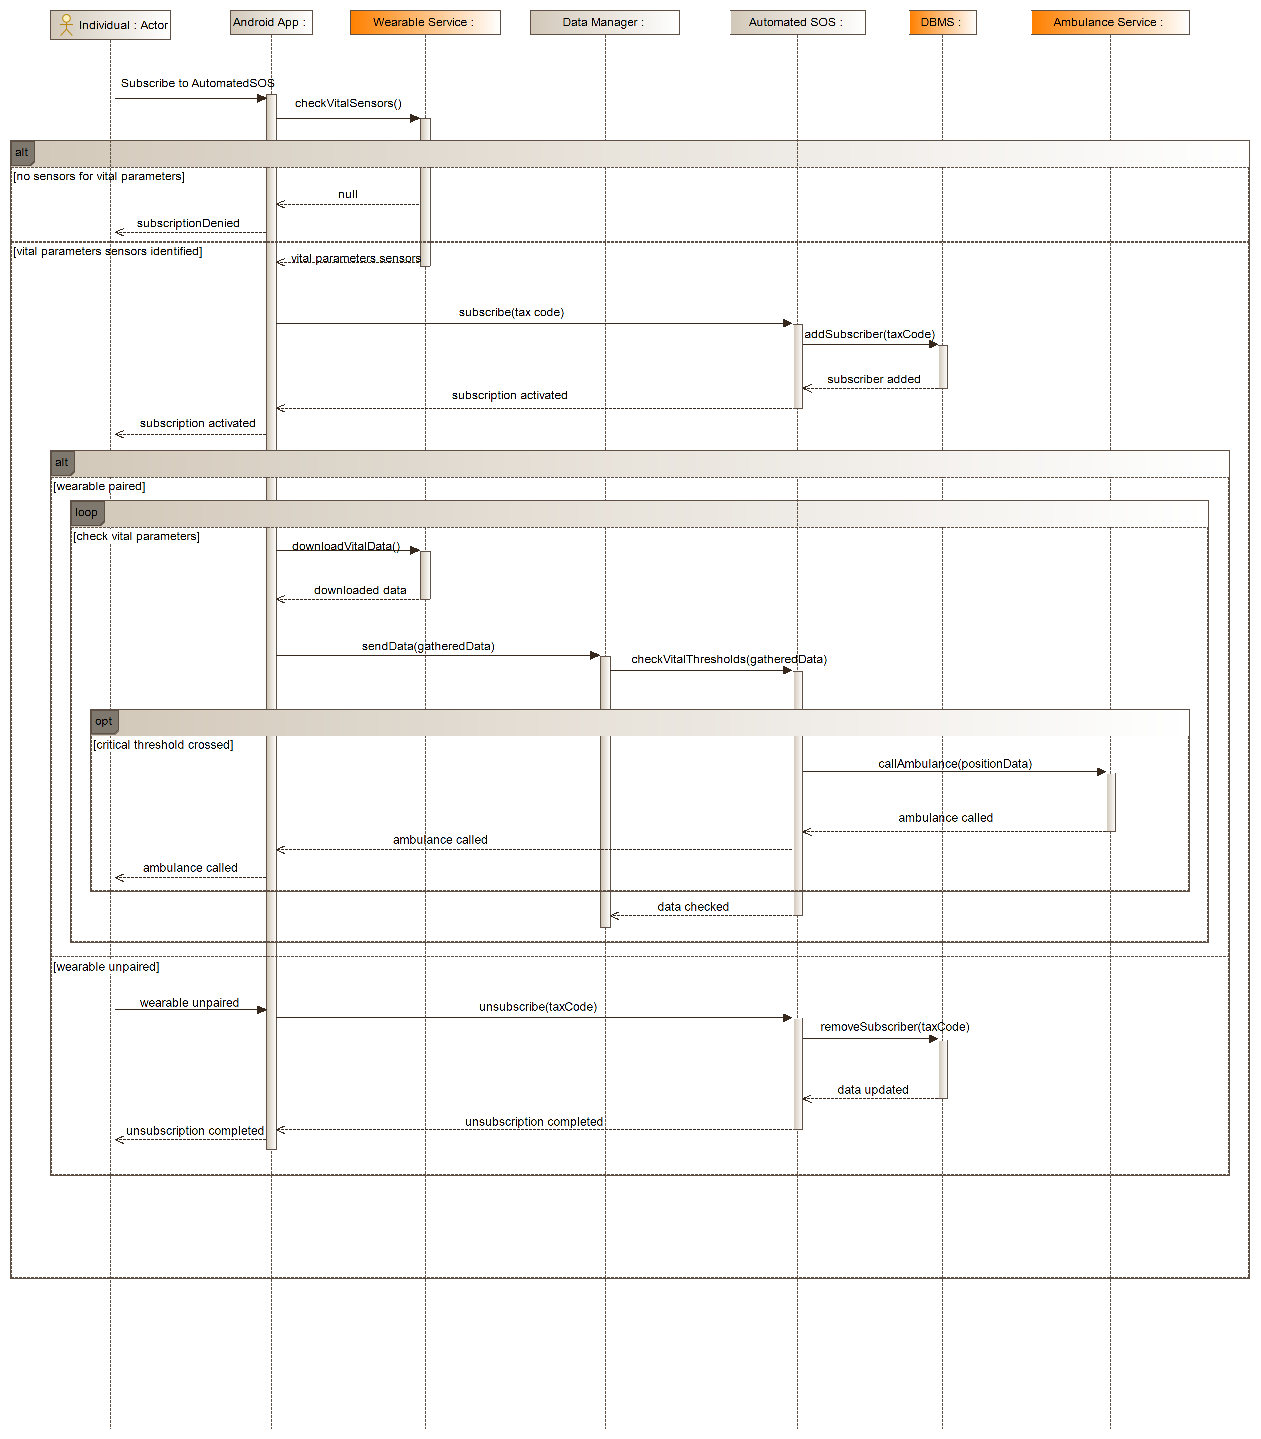
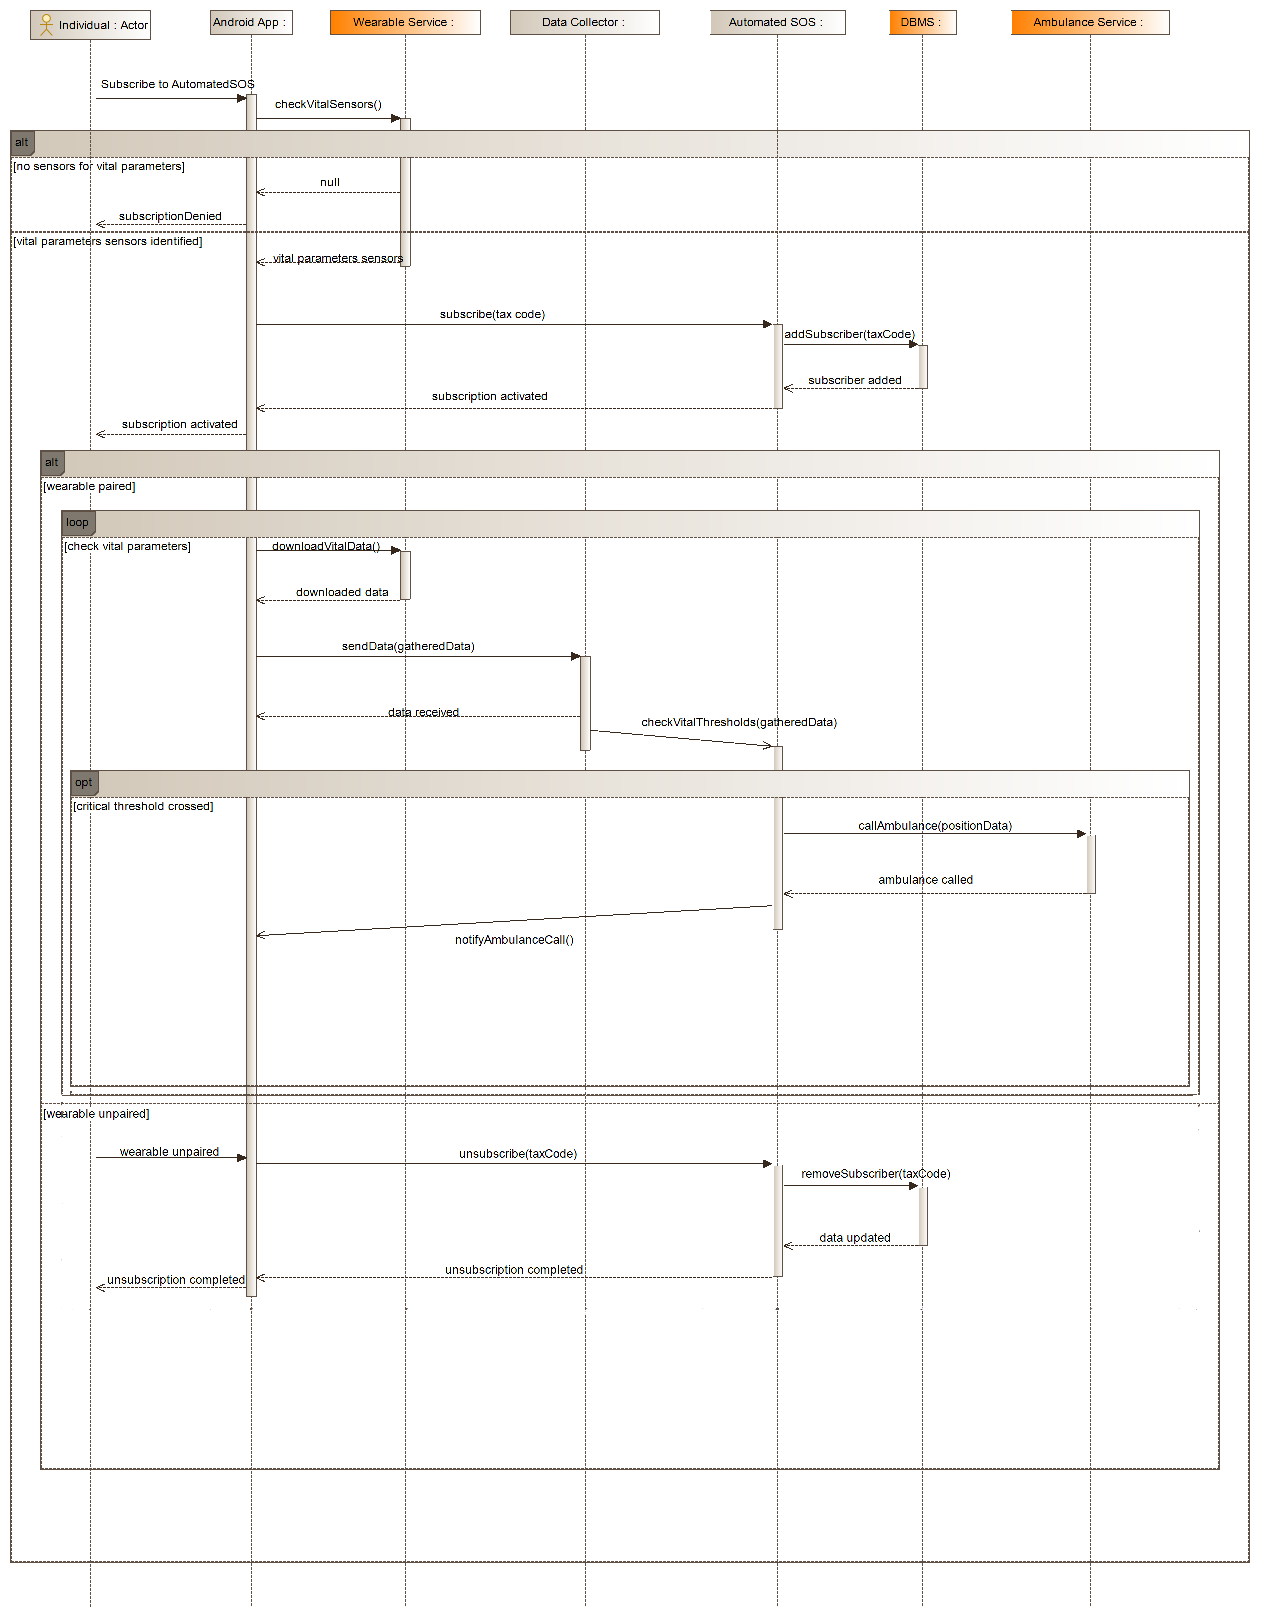
minor fixes

diff --git a/DD/ArchDesign.tex b/DD/ArchDesign.tex
@@ -135,7 +135,8 @@ Following the diagram, each operation is defined through a brief description.
 \begin{itemize}
 \item \textbf{subscribe}: activates the AutomatedSOS service for the individual associated to the given tax code.
 \item \textbf{unsubscribe}: stops the AutomatedSOS for the individual associated to the given tax code.
-\item \textbf{checkVitalThresholds}: checks if the data of the vital paramaters have crossed the critical thresholds
+\item \textbf{checkVitalThresholds}: checks if the data of the vital parameters have crossed the critical thresholds
+\item \textbf{notifyAmbulanceCall}: notifies that an ambulance has been successfully called.
 \end{itemize}
 \item Ambulance Service
 \begin{itemize}

diff --git a/RASD/references.tex b/RASD/references.tex
@@ -3,7 +3,7 @@
 \begin{itemize}
 \item Specification document "Mandatory Project Assignment AY 2018-2019.pdf"
 \item ISO/IEC/IEEE 29148 - Standard on requirement engineering
-\item WearOS by Google: https://wearos.google.com/#hands-free-help
+\item WearOS by Google: https://wearos.google.com/hands-free-help
 \item tool for building mockups: https://www.justinmind.com/
 \item tool for uml diagrams: https://www.modelio.org/
 \end{itemize}
